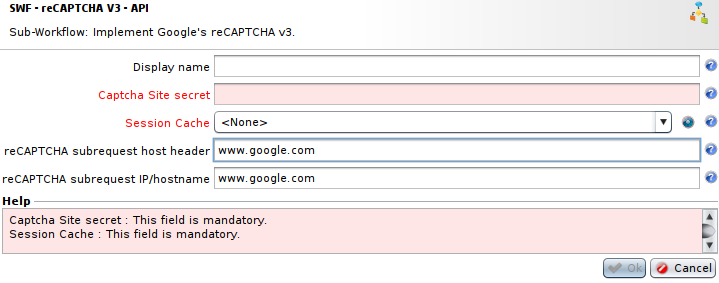
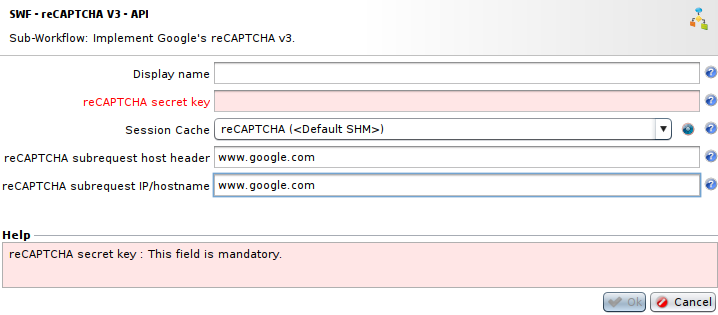
Update recaptchav3 backup and doc

diff --git a/use-cases/Security/reCAPTCHA v3/README.md b/use-cases/Security/reCAPTCHA v3/README.md
@@ -76,7 +76,7 @@ SWF - reCAPTCHA v3 - API
 
 ![](./attachments/subworkflow_settings.png)
 
-* The field **reCAPTCHA Site secret** is the secret key for your application generated earlier in your reCAPTCHA admin page.
+* The field **reCAPTCHA secret key** is the secret key for your application generated earlier in your reCAPTCHA admin page.
 * The field **Session Cache** is the **Session Cache Profile** to use to store reCAPTCHA's results for the users, it can be created from this menu or from **Policies > Workflows > Sessions Cache Profiles**.
 * The field **reCAPTCHA subrequest host header** should contain the **Host** header for the subrequest made to check user's token.
 * The field **reCAPTCHA subrequest IP/hostname** should contain the IP address or the hostname of the target for the subrequest made to check user's token.
@@ -118,14 +118,14 @@ This examples will show you how to use the **SWF - reCAPTCHA v3 - API** Sub-Work
 
 ### Settings
 
+![](./attachments/subworkflow_settings2.png)
+
 For both Sub-Workflows, settings are the same:
 * The field **reCAPTCHA site key** is the site key previously created on your reCAPTCHA admin page.
 * The field **reCAPTCHA secret key** is the secret key previously created on your reCAPTCHA admin page.
 * The field **Session Cache** is the **Session Cache Profile** that will store users reCAPTCHA's results. You can create one from this settings menu or in **Policies > Workflows > Sessions Cache Profiles**.
-* The field **reCAPTCHA subrequest hostname** is the hostname used in the subrequest sent to connect to reCAPTCHA service.
-* The field **reCAPTCHA subrequest IP/host** is the value of the header **host** used in the subrequest sent to connect to reCAPTCHA service.
-
-![](./attachments/subworkflow_settings.png)
+* The field **reCAPTCHA subrequest host header** should contain the **Host** header for the subrequest made to check user's token.
+* The field **reCAPTCHA subrequest IP/hostname** should contain the IP address or the hostname of the target for the subrequest made to check user's token.
 
 ### Provided attribute
 
